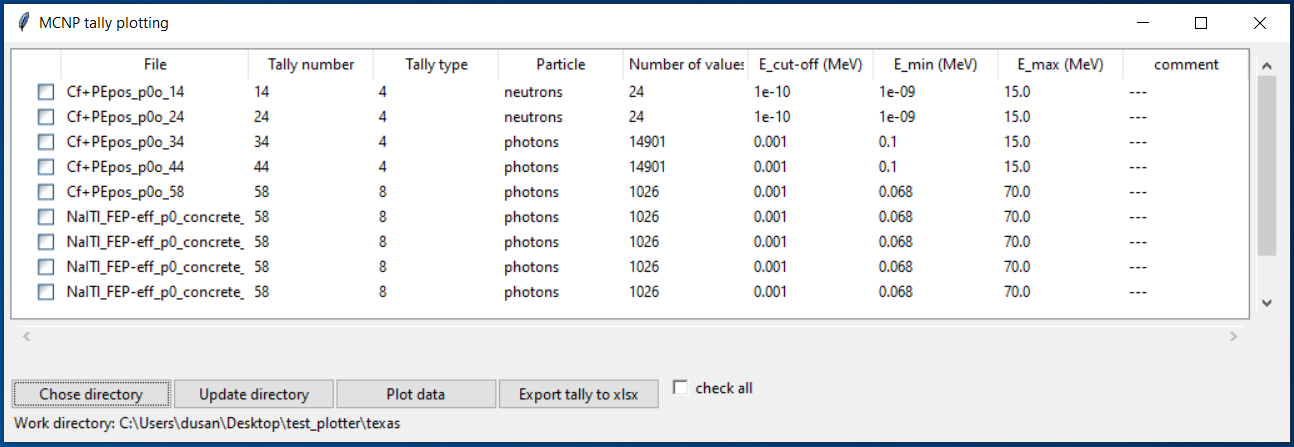
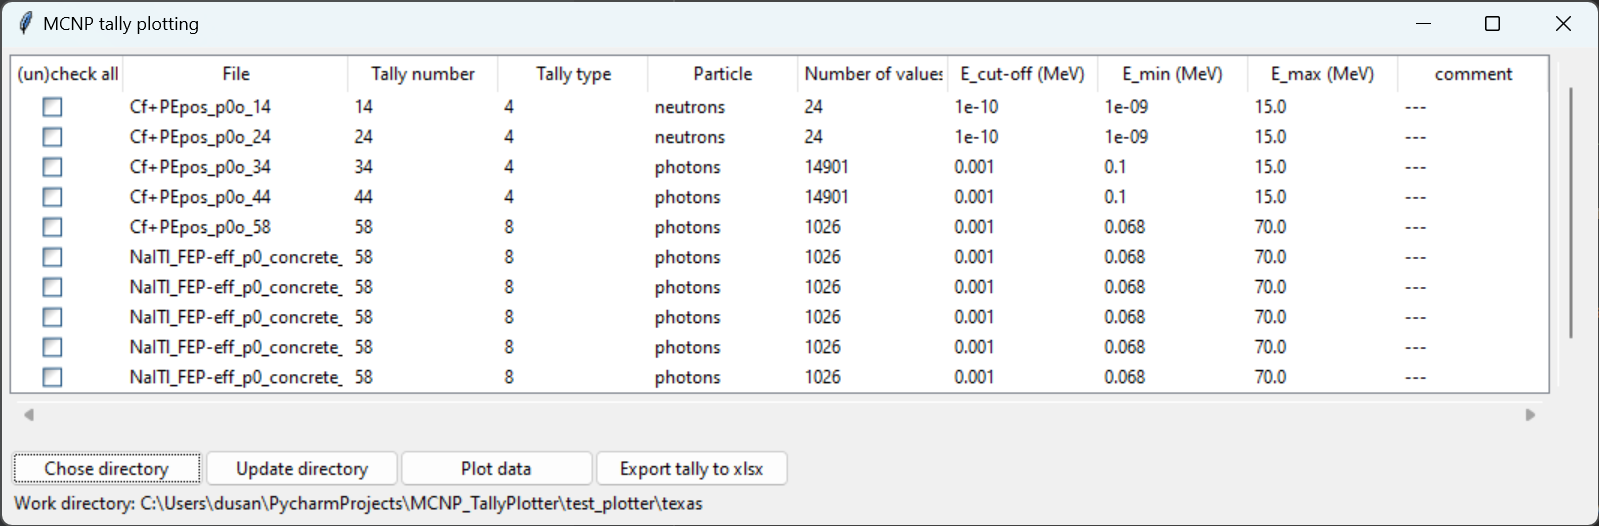
Readme and figures updated

diff --git a/README.md b/README.md
@@ -8,19 +8,20 @@ https://www.freecodecamp.org/news/how-to-write-a-good-readme-file/
 ## How to run plotter
 Two main options:
 1. Download EXE files from last release (available for Linux and Windows x64)
-2. Source files
+2. Source files and required libraries
 
 ### Executable files
-This option offer the most simple use of the MCNP tally plotter. All what one needs to do is download and install basic Python 3.10 (works with different versions but this one is tested). Actual files are available in Releases at the main page.
+This option offers the most simple use of the MCNP tally plotter. User needs to download and install basic Python 3.10 or newer (works with different versions but this one is tested). Current files are available in Releases at the main page.
 
 ### Source files
 
 Users can run uncompiled code with necessary packages:
 - Python >=3.8
 - ttkwidgets
-- openpyxl
+- openpyxl (release v0.8 and older)
+- pandas (release v0.8.1 and newer)
 - matplotlib
-- rest of packages should be part of primary Python installation
+- the rest of packages should be part of primary Python installation
 
 The easiest option is to use some virtual environment e.g. Conda environment. To recreate the Conda environment, for this project, run the following command:
 
@@ -40,15 +41,15 @@ Or you can import you environment into some IDE like Pycharm, Anaconda Spyder, e
 
 ## Short description of MCNP Plotter
 
-* this plotter was created to simplify 2D tally data extraction from MCNP output files and their visualisation
-* despite different codes, this one has a Graphical User Interface and allows doing some basic plot modifications
-* tested **ONLY** with certain MCNPX, 6.1 and 6.2 tally type, does **NOT** support **mctal**, **mdata**, **meshtal** and **runtpe** files.
-* [MCNP Tools package](https://github.com/lanl/mcnptools) for more advanced tally loading will be included in the near future. 
-* a full description is in sections below
+* this plotter was created to simplify 2D tally data extraction from MCNP output files and their visualization,
+* despite different codes, this one has a Graphical User Interface and allows doing some basic plot modifications,
+* tested **ONLY** with certain MCNPX, 6.1 and 6.2 tally types, does **NOT** support **mctal** (planned), **mdata**, **meshtal** and **runtpe** files,
+* [MCNP Tools package](https://github.com/lanl/mcnptools) for more advanced tally loading will be included in the near future,
+* you can find a full description in the sections below,
 * installation will be described in the Readme.md file at GitHub/GitLab (tested on macOS and Windows10)
-  - plotter can be run uncompiled with all necessary packages. The best option is to install a Conda environment from .YML file at GitHub/GitLab
+  - plotter can be run uncompiled with all required packages. The best option is to install a Conda environment from .YML file at GitHub/GitLab (currently out of date, missing pandas package)
   - the second option involves using a compiled code. The Python compiler > 3.8 is required.
-* possibility to show XS data together with tally data (all XS were downloaded from IAEA ENDF [webpage](https://www-nds.iaea.org/exfor/endf.htm))
+* possibility to show XS data together with tally data (all XS were downloaded from IAEA ENDF [webpage](https://www-nds.iaea.org/exfor/endf.htm)) - this is a temporary solution, in the future, there will be a possibility to use show XS data from MCNP ACE files.
 
 ## Main window
 
@@ -58,11 +59,12 @@ Or you can import you environment into some IDE like Pycharm, Anaconda Spyder, e
   - **Update directory** - this option read again content of work directory.
   - **Plot data** - all selected tallies are plotted in a new window.
   - **Export tally to xlsx** - all selected tally are saved to `.xsls` file. User has to choose the `.xsls` file name in the saving dialog. Every tally is saved to a separate list.
-  - **check all** - this check box allows us to check/uncheck all tallies.
+  - **(un)check all** - this function is activated by left mouse button by clicking on column name (un)check all. It checks or unchecks all tallies in the list.
+  - **sort by column** - this function is activated by left mouse button by clicking on column name. It sorts all tallies by the selected column.
 
 <img src="doc/mcnp_plotter/main_win_empty.PNG" width="70%" height="70%" title="Main window without data">
 
-- after the data are loaded from the working folder, its parameters are displayed:
+- the table in the main window contains several columns which are shown after the first output file is read:
   - the first column is check box for data selection
   - **File** - is a unique identifier created from output file name and tally number
   - **Tally number** - tally number from output file
@@ -86,31 +88,32 @@ Or you can import you environment into some IDE like Pycharm, Anaconda Spyder, e
 <img src="doc/mcnp_plotter/plot_win_init_sec.png" width="70%" height="70%">
 
 ### Plot settings and replot
-- most of the changes are applied immediately after a widget is used.
+- most of the changes are applied immediately after any widget is used.
 - this behavior could be deactivated by check box in the lower part of this section. After that must be used button **Replot** to apply all settings.
 - A Quit button could be used for a return to the main window. 
 
 A short description of major settings:
-* X and Y axis settings allows changing a scale between linear and logarithmic
+* X and Y axis settings allow changing a scale between linear and logarithmic
 * Data input switch between normalized (data are divided by energy bins, then values are normalized per one MeV) and unnormalized data (default).
 * show/hide error bars checkbox is useful in a case of worse statistics when a figure is saturated by error bars.
-* menu button in Data input frame allows choosing a tally for ratio plot. All other tallies are divided by the selected tally. This works only if all tallies in the plot have the same bins.
+* a menu button in Data input frame allows choosing a tally for ratio plot. All other tallies are divided by the selected tally. This works only if all tallies in the plot have the same bins.
 * Legend setting - allows change legend position and font size
 * Font size frame - allows change Axes title and Ticks font size
 * Grid settings frame - allows to turn on/off a grid with different settings
 * A Cross-section frame allows showing XS data in the picture with a secondary Y axis.
 * Export frame - is used for applying several other settings described in the next subsection.
     - Editor settings/legend open an Editor for `config_export` or `config_legend` file
+    - Reload config - read again setting from the  `config` file (in case you made changes in a different text editor)
     - On/Off save figure activate figure saving after every replot
     - On/Off LaTeX - this checkbox is now deprecated, but in the future will allow use LaTeX fonts and formatting (only with LaTeX compiler, e.g. MikTeX, LiveTex)
     - On/Off X/Y/Y2 axis limits are using limit values from a `config` file
-    - Reload config - read again setting from the  `config` file (in case you made changes in a different text editor)
+    - On/Off figure title allows add a title to the figure (default is off, title text and size is set in the `config_export` file)
 
 
 <img src="doc/mcnp_plotter/plot_win_xs-data.PNG" alt= “” width="70%" height="70%">
 
 ### Config files editor
-- Editor settings/legend from Export frame open a new window depending on a menu button above this button
+- Editor settings/legend from Export frame opens a new window depending on a menu button above this button
 - there are two options:
   - config_export - this file content wide option for figure editing. It includes axis title names and min/max values, figure export parameters (dpi, file extension), etc. Default value for all variables is `None`  
   - config_legend - in this file are stored all tallies during the read process if they are not already here. Users can change the file name used in the figure legend by editing string behind equal symbol.   
@@ -118,6 +121,8 @@ A short description of major settings:
 <img src="doc/mcnp_plotter/editor_win_config.PNG" alt= “” width="50%" height="50%">
 
 <img src="doc/mcnp_plotter/editor_win_legend.PNG" alt= “” width="50%" height="50%">
+
+- the figure is reploted automatically when the user saves the config file and closes the editor window
 
 ### Source of XS data
 
@@ -129,6 +134,6 @@ A short description of major settings:
 
 - the MCNP plotter can show data only from one file. Therefore, all XS values must be in one file.
 - as a control sequence is used `#` symbol. Only data where is `#` removed from name string will be plotted.
-- a string following name is used as a name in figure legend.
+- a string following a tally name is used as a name in figure legend.
 
 <img src="doc/mcnp_plotter/endf_xs_name.PNG" width="50%" height="50%" title="XS data file example downloaded from ENDF page.">
